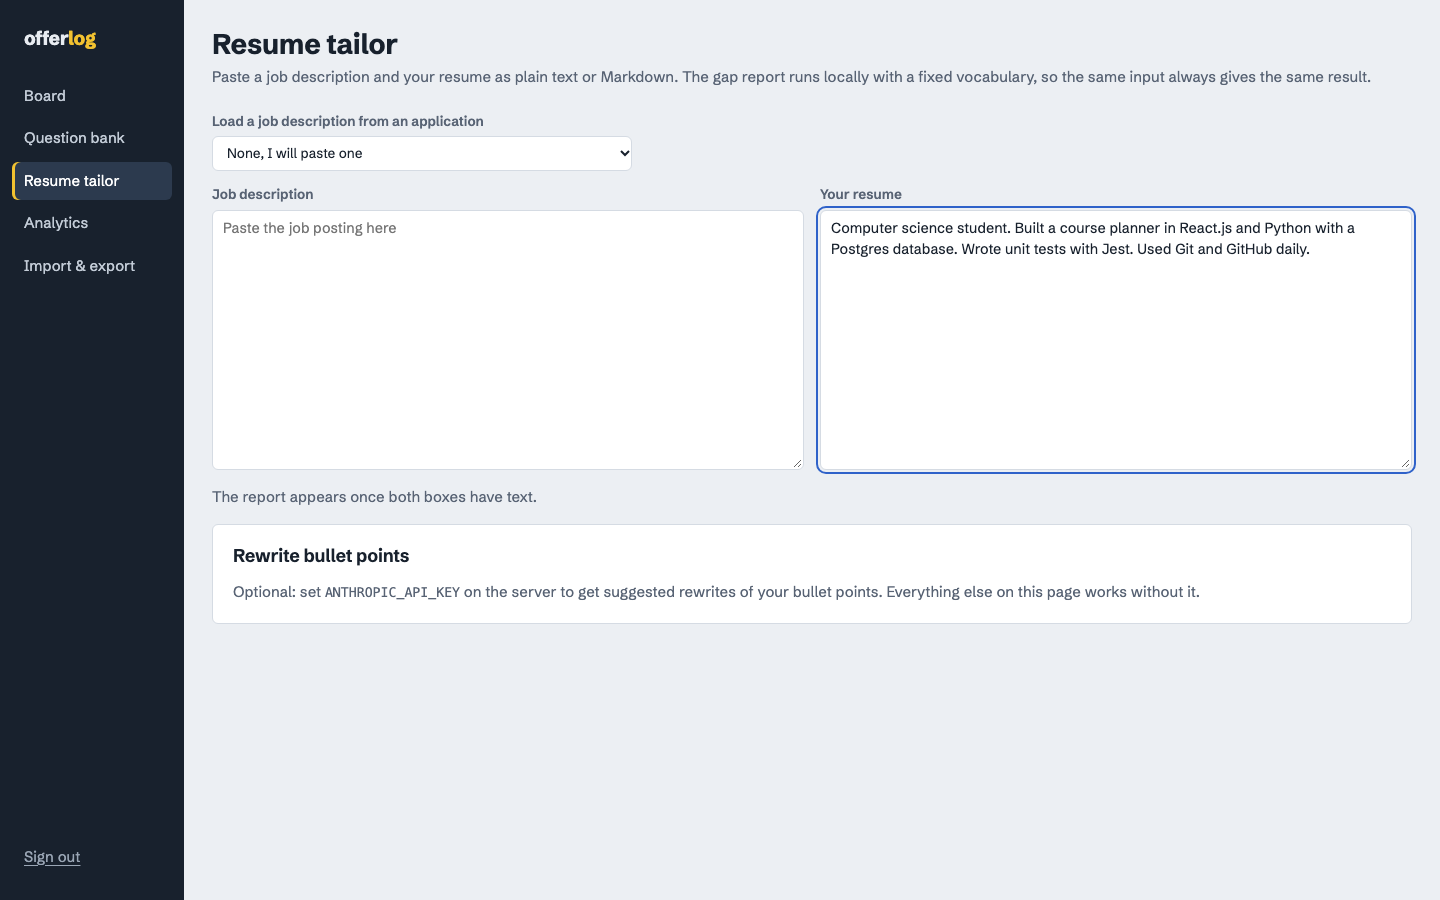
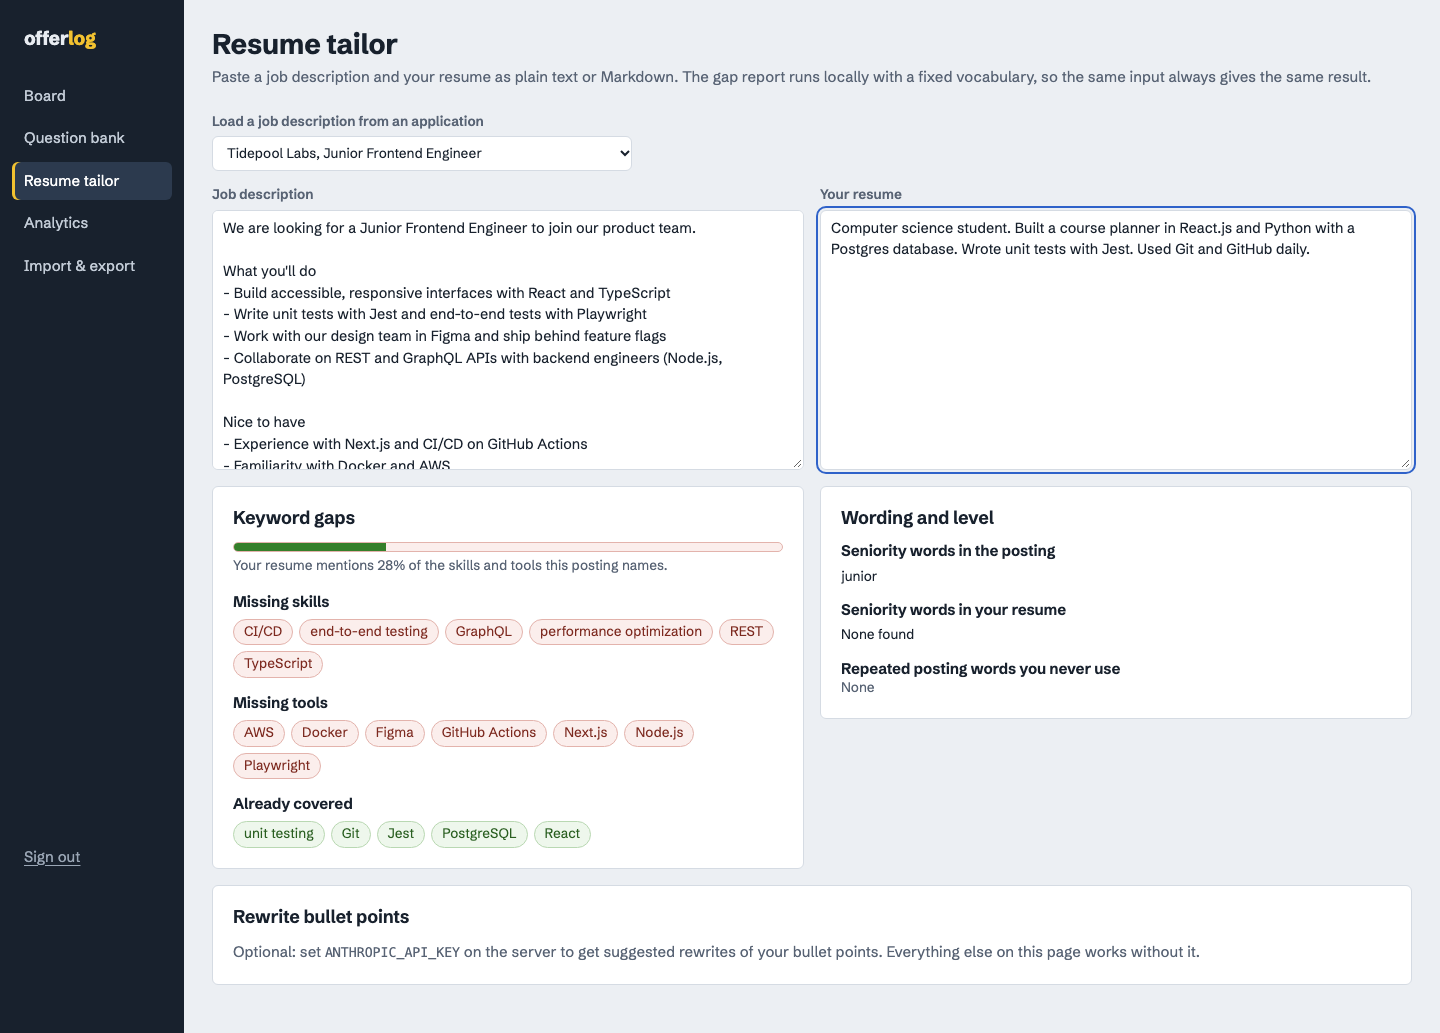
Keep the phone header compact on short pages; pick the tailor job by name in screenshots

diff --git a/src/app/globals.css b/src/app/globals.css
@@ -251,6 +251,8 @@ main {
 @media (max-width: 760px) {
   .shell {
     grid-template-columns: 1fr;
+    /* Without this, a short page splits the spare height between the header and main. */
+    grid-template-rows: auto 1fr;
     background: none;
   }
   .sidebar {

diff --git a/CHANGELOG.md b/CHANGELOG.md
@@ -17,6 +17,8 @@ Latest, design and UX pass: every page was checked in real screenshots at 1440px
 ### Fixed
 
 - On phones the board showed seven 158px slivers; columns now take 78% of the width and snap one at a time.
+- On phones, short pages (such as not-found) split the spare height between header and content, so the nav bar ballooned to about 360px.
+- `scripts/screenshots.mjs` loaded the tailor with `?app=1`, which is empty after a reseed; it now picks the job by name.
 - Funnel counts were white on the bar colour, which failed contrast on amber. They now sit beside the bar.
 - Tabular figures split "6.5 d" into "6 . 5 d" in this typeface; they are now only used for bare integers.
 - "1 offers" and "Imported 1 applications." are pluralised correctly.
